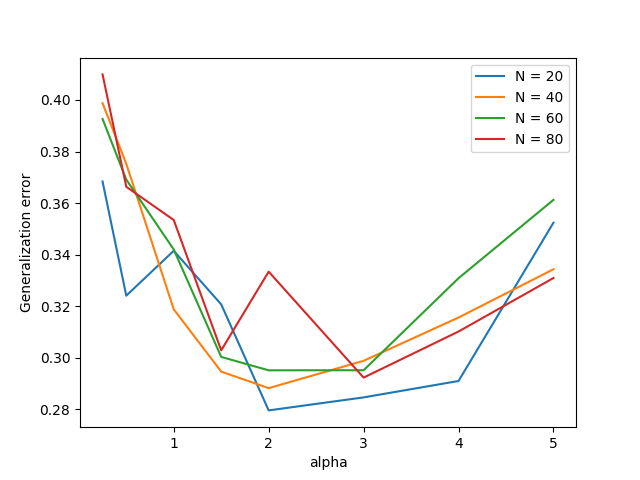
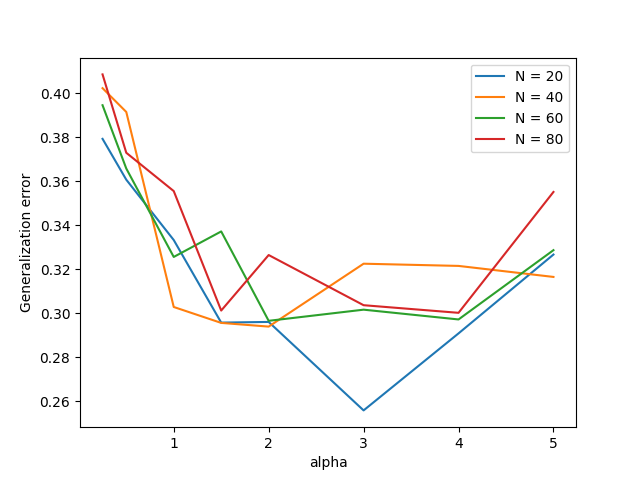
final implementation

diff --git a/assignment2/assignment_2_bonus_5.py b/assignment2/assignment_2_bonus_5.py
@@ -10,6 +10,7 @@ import pprint
 import random
 
 np.random.seed(42)
+random.seed(42)
 
 #### Define parameters for experiments
 N = [20, 40, 60, 80]  # number of features for each datapoint
@@ -47,7 +48,7 @@ def generate_wstar(n: list) -> list:
 def generate_data(n: int, p: int, w_star: np.ndarray) -> tuple[np.ndarray, np.ndarray]:
     """ Generation of artificial dataset containing P randomly generated N-dimensional feature vectors and labels.
         - The datapoints are sampled from a Gaussian distribution with mu=0 and std=1.
-        - The labels are independent random numbers y = {-1,1}.
+        - The labels are the outputs of the teacher perceptron.
     :return: Generated dataset as a PxN numpy array; labels as Px1 numpy array.
     """
     X = []
@@ -77,11 +78,6 @@ def train(n: int, p: int, epochs: int, data: np.ndarray, labels: np.ndarray, w_s
      """
 
     w = np.zeros(n)
-    # w_tmax is the weight vector that will hopefully contain the optimal stability (the stability that the teacher
-    # perceptron has) by the end of the training - THIS IS NOT the same weight vector that we obtain by stopping criterion
-    w_tmax = w
-    stop_training = False  # boolean flag used for stopping criterion
-    req_e = 0  # variable containing required number of epochs to run the algorithm
 
     # The new loop goes until t_max = n_max * p single training steps have been performed
     for i in range(epochs * p):
@@ -95,18 +91,14 @@ def train(n: int, p: int, epochs: int, data: np.ndarray, labels: np.ndarray, w_s
         # 2) identify example mu(t) that has currently the minimal stability
         mu_min = kappas.index(min(kappas))
         # 3) perform a Hebbian update step with it
-        if not stop_training:
-            w += (1 / n) * data[mu_min, :] * labels[mu_min]
-        else:  # after heaving reached the criterion, we don't need to update 'w' anymore, only 'w_tmax'
-            w_tmax += (1 / n) * data[mu_min, :] * labels[mu_min]
+        w += (1 / n) * data[mu_min, :] * labels[mu_min]
 
-    req_e = i if req_e == 0 else req_e
-    if stop_training:
-        print("Stopping criterion has been reached.")
+    # check for cosine criterion in at the end of training
+    similarity = np.dot(w, w_star) / (np.linalg.norm(w) * np.linalg.norm(w_star))
     # determine generalization error
-    error = 1 / np.pi * np.arccos((np.dot(w_tmax, w_star)) / (np.linalg.norm(w_tmax) * np.linalg.norm(w_star)))
+    error = 1 / np.pi * np.arccos((np.dot(w, w_star)) / (np.linalg.norm(w) * np.linalg.norm(w_star)))
 
-    return w, req_e, error  # also returning req_epochs as its important for determining if a solution was found
+    return w, i, error, similarity
 
 
 # CREATING DATASETS
@@ -138,18 +130,22 @@ if __name__ == '__main__':
     datasets = generate_data_dict(N, perceptrons)
 
     # calculating the proportion of successful perceptron training runs
-    experiment_params = {n: {a: 0 for a in alpha} for n in N}
+    experiment_params = {n: {a: [0, 0] for a in alpha} for n in N}
     for m in tqdm(range(len(N))):
         for k in tqdm(range(len(alpha))):
             p = int(alpha[k] * N[m])
             training_steps = []
+            cos_sim = []
             curr_errors = []  # generalization errors of the next 10 datasets
             for _ in range(n_D):
-                w_final, i, e = train(N[m], p, n_max, datasets[N[m]][p][_][0], datasets[N[m]][p][_][1], perceptrons[m])
+                X, y = datasets[N[m]][p][_][0], datasets[N[m]][p][_][1]
+                w_final, i, e, similarity = train(N[m], p, n_max, X, y, perceptrons[m])
                 curr_errors.append(e)
                 training_steps.append(i + 1)
+                cos_sim.append(similarity)
             errors[m, k] = np.mean(curr_errors)
-            experiment_params[N[m]][alpha[k]] = np.mean(training_steps)
+            experiment_params[N[m]][alpha[k]][0] = np.mean(training_steps)
+            experiment_params[N[m]][alpha[k]][1] = np.mean(cos_sim)
     print("Experiment params", experiment_params)
     plt.figure()
     for i in range(len(N)):

diff --git a/assignment2/assignment_2.py b/assignment2/assignment_2.py
@@ -70,11 +70,6 @@ def train(n: int, p: int, epochs: int, data: np.ndarray, labels: np.ndarray, w_s
      """
 
     w = np.zeros(n)
-    # w_tmax is the weight vector that will hopefully contain the optimal stability (the stability that the teacher
-    # perceptron has) by the end of the training - THIS IS NOT the same weight vector that we obtain by stopping criterion
-    w_tmax = w
-    stop_training = False  # boolean flag used for stopping criterion
-    req_e = 0
 
     # The new loop goes until t_max = n_max * p single training steps have been performed
     for i in range(epochs * p):
@@ -88,24 +83,14 @@ def train(n: int, p: int, epochs: int, data: np.ndarray, labels: np.ndarray, w_s
         # 2) identify example mu(t) that has currently the minimal stability
         mu_min = kappas.index(min(kappas))
         # 3) perform a Hebbian update step with it
-        if not stop_training:
-            w += (1 / n) * data[mu_min, :] * labels[mu_min]
-            w_tmax = w
-        else:  # after heaving reached the criterion, we don't need to update 'w' anymore, only 'w_tmax'
-            w_tmax += (1 / n) * data[mu_min, :] * labels[mu_min]
+        w += (1 / n) * data[mu_min, :] * labels[mu_min]
 
-        # check for cosine criterion in each training step (0.97 was an arbitrary pick, can be finetuned later)
-        if (np.dot(w, w_star) / (np.linalg.norm(w) * np.linalg.norm(w_star))) >= 0.97 and not stop_training:
-            stop_training = True
-            req_e = i
-
-    req_e = i if not stop_training else req_e
-    if stop_training:
-        print("Stopping criterion has been reached.")
+    # check for cosine criterion in at the end of training
+    similarity = np.dot(w, w_star) / (np.linalg.norm(w) * np.linalg.norm(w_star))
     # determine generalization error
-    error = 1 / np.pi * np.arccos((np.dot(w_tmax, w_star)) / (np.linalg.norm(w_tmax) * np.linalg.norm(w_star)))
+    error = 1 / np.pi * np.arccos((np.dot(w, w_star)) / (np.linalg.norm(w) * np.linalg.norm(w_star)))
 
-    return w, req_e, error  # also returning req_epochs as its important for determining if a solution was found
+    return w, i, error, similarity
 
 
 # CREATING DATASETS
@@ -137,19 +122,22 @@ if __name__ == '__main__':
     datasets = generate_data_dict(N, perceptrons)
 
     # calculating the proportion of successful perceptron training runs
-    experiment_params = {n: {a: 0 for a in alpha} for n in N}
+    experiment_params = {n: {a: [0, 0] for a in alpha} for n in N}
     for m in tqdm(range(len(N))):
         for k in tqdm(range(len(alpha))):
             p = int(alpha[k] * N[m])
             training_steps = []
+            cos_sim = []
             curr_errors = []  # generalization errors of the next 10 datasets
             for _ in range(n_D):
                 X, y = datasets[N[m]][p][_][0], datasets[N[m]][p][_][1]
-                w_final, i, e = train(N[m], p, n_max, X, y, perceptrons[m])
+                w_final, i, e, similarity = train(N[m], p, n_max, X, y, perceptrons[m])
                 curr_errors.append(e)
                 training_steps.append(i + 1)
+                cos_sim.append(similarity)
             errors[m, k] = np.mean(curr_errors)
-            experiment_params[N[m]][alpha[k]] = np.mean(training_steps)
+            experiment_params[N[m]][alpha[k]][0] = np.mean(training_steps)
+            experiment_params[N[m]][alpha[k]][1] = np.mean(cos_sim)
     print("Experiment params", experiment_params)
     plt.figure()
     for i in range(len(N)):

diff --git a/assignment2/assignment_2_bonus_1-2.py b/assignment2/assignment_2_bonus_1-2.py
@@ -14,7 +14,7 @@ np.random.seed(42)
 N = [20, 40, 60, 80]  # number of features for each datapoint
 alpha = [0.25, 0.5, 1.0, 1.5, 2.0, 3.0, 4.0, 5.0]  # ratio of (datapoint_amount / feature_amount)
 n_D = 10  # number of datasets required for each value of P
-n_max = 10  # maximum number of epochs
+n_max = 100  # maximum number of epochs
 
 #### Params for data generation
 MU = 0
